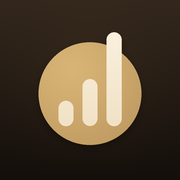
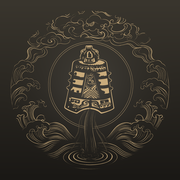
v22:手机桌面图标换新品牌标(深墨底金字符号标) + SW 版本号升级
- icon.png(512) / icon-192.png(192) / apple-touch-icon.png(180) 换成砺蕴符号标
- 底色取深墨、图案取品牌金:浅/深壁纸下都清楚(原米白底在浅壁纸上几乎看不见)
- 满幅不透明:iOS 自切圆角、Android maskable 蒙版都不会露黑边
- 符号标占画布 0.88,中环+编钟落在 maskable 80% 安全圆内
- sw.js VERSION v21→v22,老用户缓存自动刷新

diff --git a/sw.js b/sw.js
@@ -21,7 +21,7 @@
       否则老 SW 不会重装、新清单永远不生效。
    ══════════════════════════════════════════════════════════════════ */
 
-const VERSION = 'v21';     // v21：进群开场白改「哈喽，乖，欢迎加入博艺大家庭，下面是你的学生系统的账号和密码，注意查收哦」。v20：学生账号入口对三位教务开放(原先只有首位教务看得见)并从倒数第二挪到「名册」下面 + 名单可按班级排序/一键复制；名册里两个「＋新建班级」按钮和下拉里的「＋新建班级…」一并去掉（建班归页面上头的班级卡片）
+const VERSION = 'v22';     // v22：手机桌面图标换新品牌标（深墨底金字，icon.png/icon-192/apple-touch-icon 三件套）。v21：进群开场白改「哈喽，乖，欢迎加入博艺大家庭，下面是你的学生系统的账号和密码，注意查收哦」。v20：学生账号入口对三位教务开放(原先只有首位教务看得见)并从倒数第二挪到「名册」下面 + 名单可按班级排序/一键复制；名册里两个「＋新建班级」按钮和下拉里的「＋新建班级…」一并去掉（建班归页面上头的班级卡片）
 const CACHE = 'liyun-shell-' + VERSION;
 
 /* 开屏要用的东西全在这里 —— 预缓存后，第二次开就是本地读盘。 */
